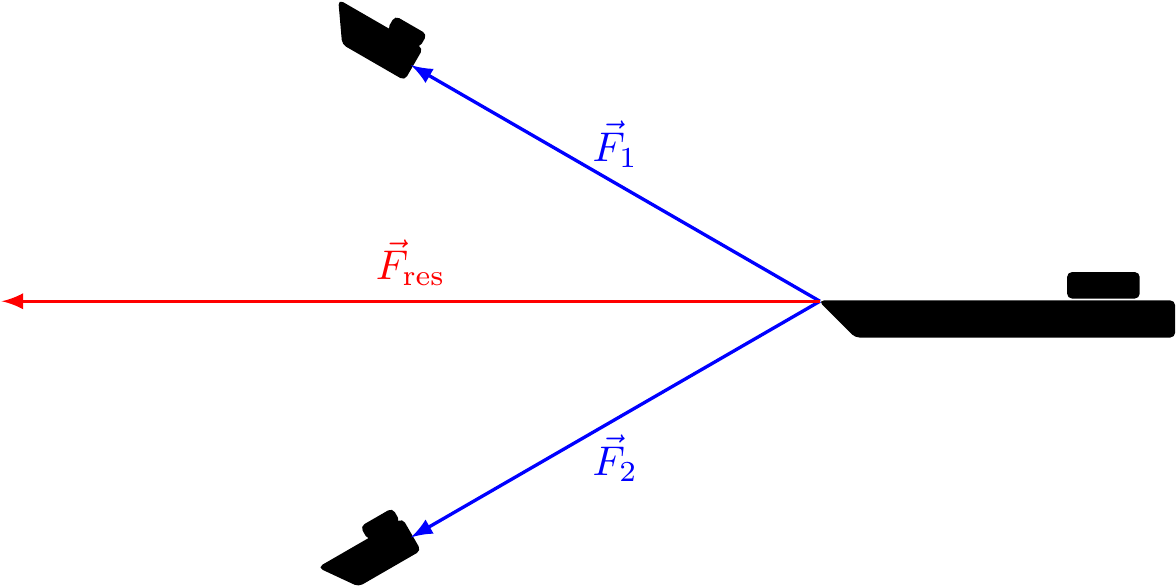
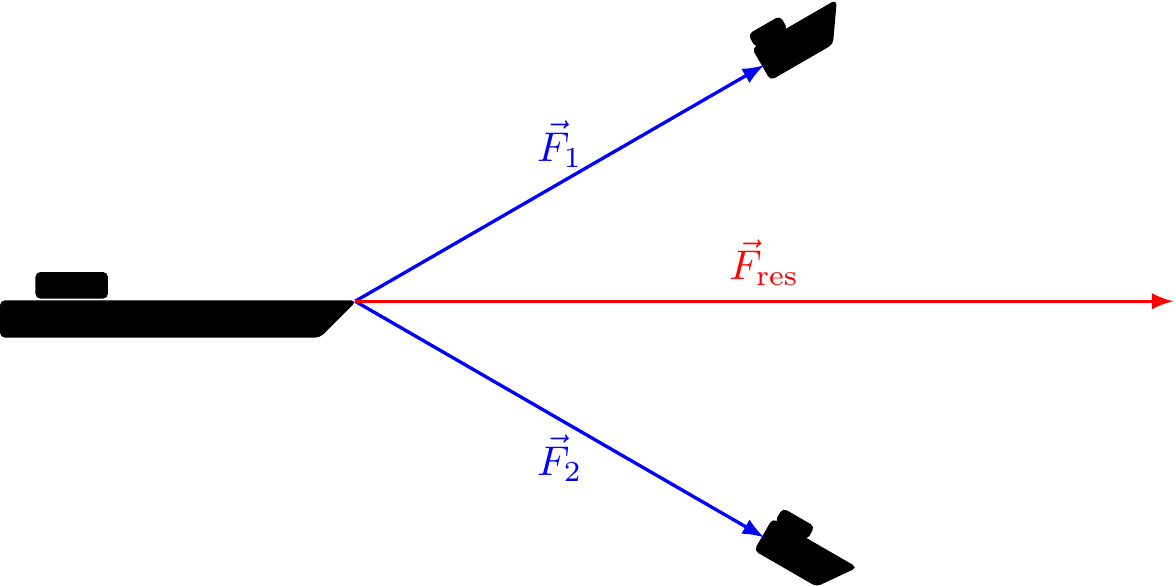
invert ship figure

diff --git a/mechanics/ship-forces/ship-forces_inverted.tex b/mechanics/ship-forces/ship-forces_inverted.tex
@@ -15,14 +15,14 @@
 \newcommand{\F}{\vec{F}}
 
 \newcommand{\bigship}[3]{%
-  \begin{scope}[shift={#1}, scale={#2/10}, rotate=#3]
+  \begin{scope}[shift={#1}, scale={#2/10}, rotate=#3, xscale=-1]
     \draw[fill=white, rounded corners=1] (0,0) -- ++(1,-1) -- ++(9,0) -- ++(0,1) -- cycle;%
     \draw[fill=white, rounded corners=1] (7,0.1) rectangle ++(2,0.7);%
   \end{scope}
 }
 
 \newcommand{\smallship}[3]{%
-  \begin{scope}[shift={#1}, scale={#2/2}, rotate=#3]
+  \begin{scope}[shift={#1}, scale={#2/2}, rotate=#3, xscale=-1]
     \draw[fill=white, rounded corners=1] (0,0) -- ++(0.7,-1) -- ++(2,0) -- ++(0,1) -- cycle;%
     \draw[fill=white, rounded corners=1] (1.6,0) rectangle ++(1,0.4);%
   \end{scope}
@@ -31,11 +31,11 @@
 \begin{document}
 \begin{tikzpicture}[inverted,inverted]
   \bigship{(0,0)}{3}{0}
-  \smallship{(148:4.8)}{0.6}{-30}
-  \smallship{(208:4.8)}{0.6}{30}
+  \smallship{(-28:4.8)}{0.6}{-30}
+  \smallship{(32:4.8)}{0.6}{30}
   % arrows
-  \draw[->, blue, thick] (0,0) -- node[above] {$\F_1$} (150:4) coordinate (F1);
-  \draw[->, blue, thick] (0,0) -- node[below] {$\F_2$} (210:4) coordinate (F2);
+  \draw[->, blue, thick] (0,0) -- node[above] {$\F_1$} (30:4) coordinate (F1);
+  \draw[->, blue, thick] (0,0) -- node[below] {$\F_2$} (-30:4) coordinate (F2);
   \draw[->, red , thick] (0,0) -- node[above] {$\F_\text{res}$} ($(F1)+(F2)$);
 \end{tikzpicture}
 \end{document}

diff --git a/mechanics/ship-forces/ship-forces.tex b/mechanics/ship-forces/ship-forces.tex
@@ -6,14 +6,14 @@
 \newcommand{\F}{\vec{F}}
 
 \newcommand{\bigship}[3]{%
-  \begin{scope}[shift={#1}, scale={#2/10}, rotate=#3]
+  \begin{scope}[shift={#1}, scale={#2/10}, rotate=#3, xscale=-1]
     \draw[fill=black, rounded corners=1] (0,0) -- ++(1,-1) -- ++(9,0) -- ++(0,1) -- cycle;%
     \draw[fill=black, rounded corners=1] (7,0.1) rectangle ++(2,0.7);%
   \end{scope}
 }
 
 \newcommand{\smallship}[3]{%
-  \begin{scope}[shift={#1}, scale={#2/2}, rotate=#3]
+  \begin{scope}[shift={#1}, scale={#2/2}, rotate=#3, xscale=-1]
     \draw[fill=black, rounded corners=1] (0,0) -- ++(0.7,-1) -- ++(2,0) -- ++(0,1) -- cycle;%
     \draw[fill=black, rounded corners=1] (1.6,0) rectangle ++(1,0.4);%
   \end{scope}
@@ -22,11 +22,11 @@
 \begin{document}
 \begin{tikzpicture}
   \bigship{(0,0)}{3}{0}
-  \smallship{(148:4.8)}{0.6}{-30}
-  \smallship{(208:4.8)}{0.6}{30}
+  \smallship{(-28:4.8)}{0.6}{-30}
+  \smallship{(32:4.8)}{0.6}{30}
   % arrows
-  \draw[->, blue, thick] (0,0) -- node[above] {$\F_1$} (150:4) coordinate (F1);
-  \draw[->, blue, thick] (0,0) -- node[below] {$\F_2$} (210:4) coordinate (F2);
+  \draw[->, blue, thick] (0,0) -- node[above] {$\F_1$} (30:4) coordinate (F1);
+  \draw[->, blue, thick] (0,0) -- node[below] {$\F_2$} (-30:4) coordinate (F2);
   \draw[->, red , thick] (0,0) -- node[above] {$\F_\text{res}$} ($(F1)+(F2)$);
 \end{tikzpicture}
 \end{document}

diff --git a/mechanics.md b/mechanics.md
@@ -468,14 +468,14 @@
 \newcommand{\F}{\vec{F}}
 
 \newcommand{\bigship}[3]{%
-  \begin{scope}[shift={#1}, scale={#2/10}, rotate=#3]
+  \begin{scope}[shift={#1}, scale={#2/10}, rotate=#3, xscale=-1]
     \draw[fill=black, rounded corners=1] (0,0) -- ++(1,-1) -- ++(9,0) -- ++(0,1) -- cycle;%
     \draw[fill=black, rounded corners=1] (7,0.1) rectangle ++(2,0.7);%
   \end{scope}
 }
 
 \newcommand{\smallship}[3]{%
-  \begin{scope}[shift={#1}, scale={#2/2}, rotate=#3]
+  \begin{scope}[shift={#1}, scale={#2/2}, rotate=#3, xscale=-1]
     \draw[fill=black, rounded corners=1] (0,0) -- ++(0.7,-1) -- ++(2,0) -- ++(0,1) -- cycle;%
     \draw[fill=black, rounded corners=1] (1.6,0) rectangle ++(1,0.4);%
   \end{scope}
@@ -484,11 +484,11 @@
 \begin{document}
 \begin{tikzpicture}
   \bigship{(0,0)}{3}{0}
-  \smallship{(148:4.8)}{0.6}{-30}
-  \smallship{(208:4.8)}{0.6}{30}
+  \smallship{(-28:4.8)}{0.6}{-30}
+  \smallship{(32:4.8)}{0.6}{30}
   % arrows
-  \draw[->, blue, thick] (0,0) -- node[above] {$\F_1$} (150:4) coordinate (F1);
-  \draw[->, blue, thick] (0,0) -- node[below] {$\F_2$} (210:4) coordinate (F2);
+  \draw[->, blue, thick] (0,0) -- node[above] {$\F_1$} (30:4) coordinate (F1);
+  \draw[->, blue, thick] (0,0) -- node[below] {$\F_2$} (-30:4) coordinate (F2);
   \draw[->, red , thick] (0,0) -- node[above] {$\F_\text{res}$} ($(F1)+(F2)$);
 \end{tikzpicture}
 \end{document}
@@ -1404,14 +1404,14 @@
 \newcommand{\F}{\vec{F}}
 
 \newcommand{\bigship}[3]{%
-  \begin{scope}[shift={#1}, scale={#2/10}, rotate=#3]
+  \begin{scope}[shift={#1}, scale={#2/10}, rotate=#3, xscale=-1]
     \draw[fill=white, rounded corners=1] (0,0) -- ++(1,-1) -- ++(9,0) -- ++(0,1) -- cycle;%
     \draw[fill=white, rounded corners=1] (7,0.1) rectangle ++(2,0.7);%
   \end{scope}
 }
 
 \newcommand{\smallship}[3]{%
-  \begin{scope}[shift={#1}, scale={#2/2}, rotate=#3]
+  \begin{scope}[shift={#1}, scale={#2/2}, rotate=#3, xscale=-1]
     \draw[fill=white, rounded corners=1] (0,0) -- ++(0.7,-1) -- ++(2,0) -- ++(0,1) -- cycle;%
     \draw[fill=white, rounded corners=1] (1.6,0) rectangle ++(1,0.4);%
   \end{scope}
@@ -1420,11 +1420,11 @@
 \begin{document}
 \begin{tikzpicture}[inverted,inverted]
   \bigship{(0,0)}{3}{0}
-  \smallship{(148:4.8)}{0.6}{-30}
-  \smallship{(208:4.8)}{0.6}{30}
+  \smallship{(-28:4.8)}{0.6}{-30}
+  \smallship{(32:4.8)}{0.6}{30}
   % arrows
-  \draw[->, blue, thick] (0,0) -- node[above] {$\F_1$} (150:4) coordinate (F1);
-  \draw[->, blue, thick] (0,0) -- node[below] {$\F_2$} (210:4) coordinate (F2);
+  \draw[->, blue, thick] (0,0) -- node[above] {$\F_1$} (30:4) coordinate (F1);
+  \draw[->, blue, thick] (0,0) -- node[below] {$\F_2$} (-30:4) coordinate (F2);
   \draw[->, red , thick] (0,0) -- node[above] {$\F_\text{res}$} ($(F1)+(F2)$);
 \end{tikzpicture}
 \end{document}
